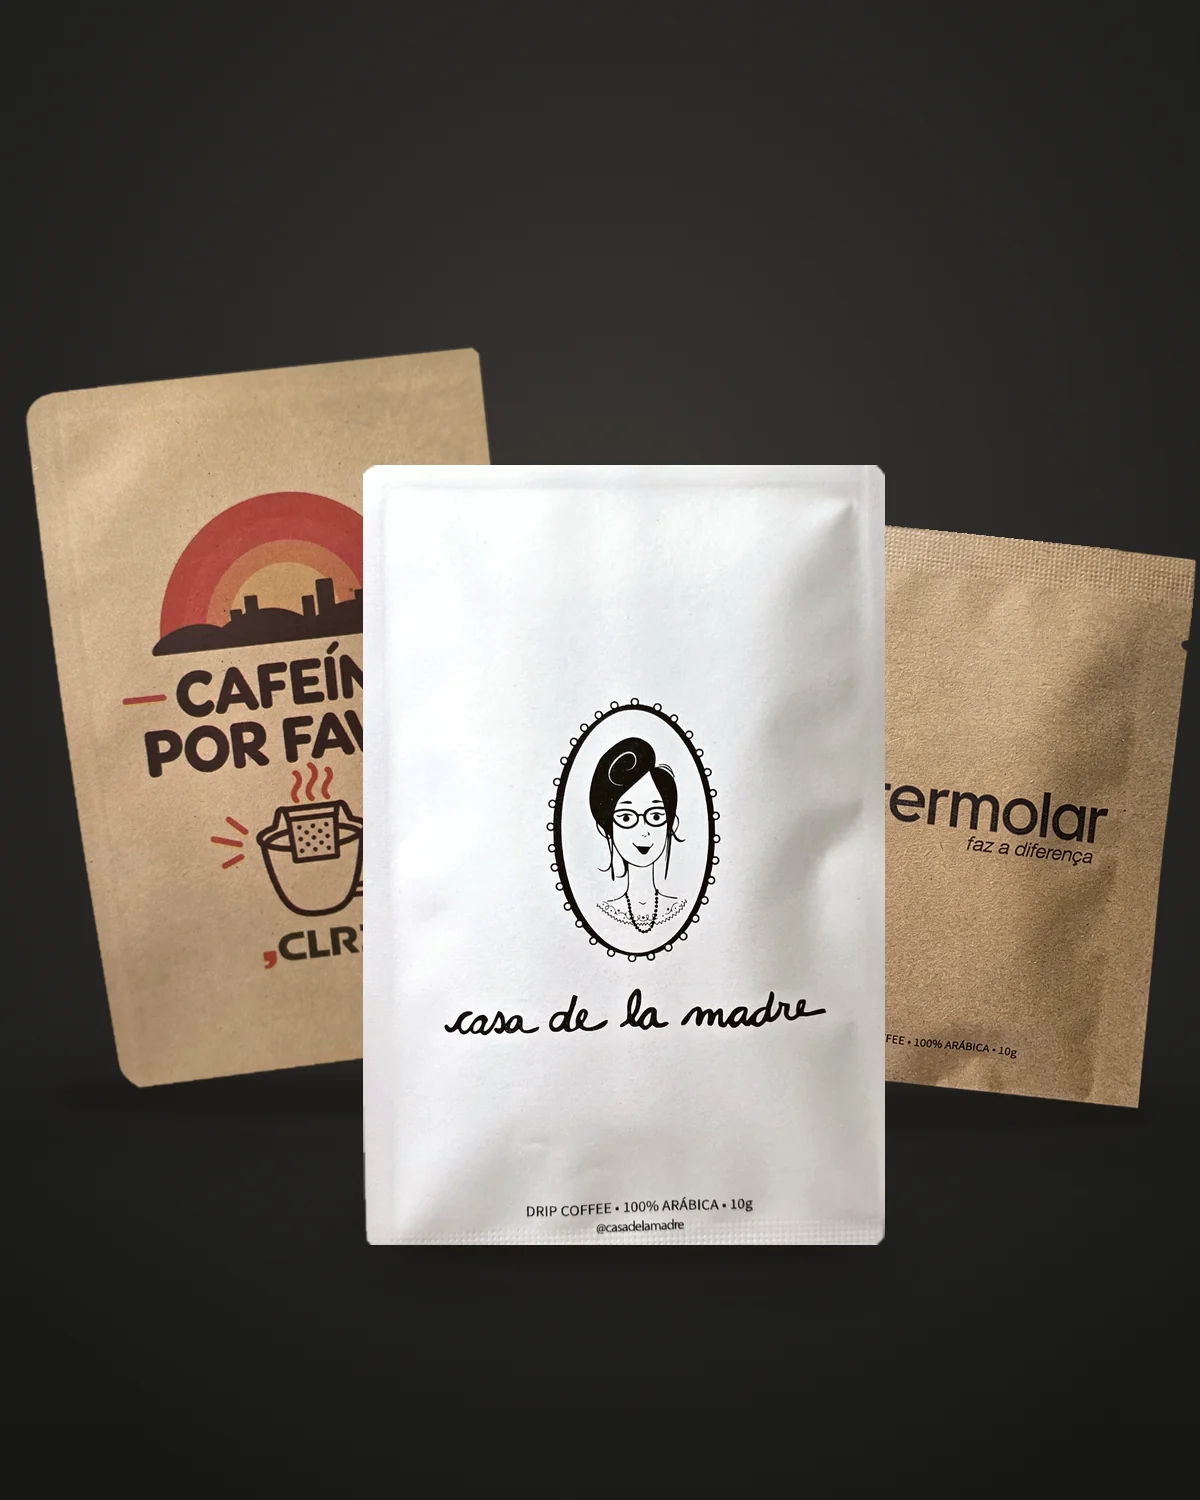
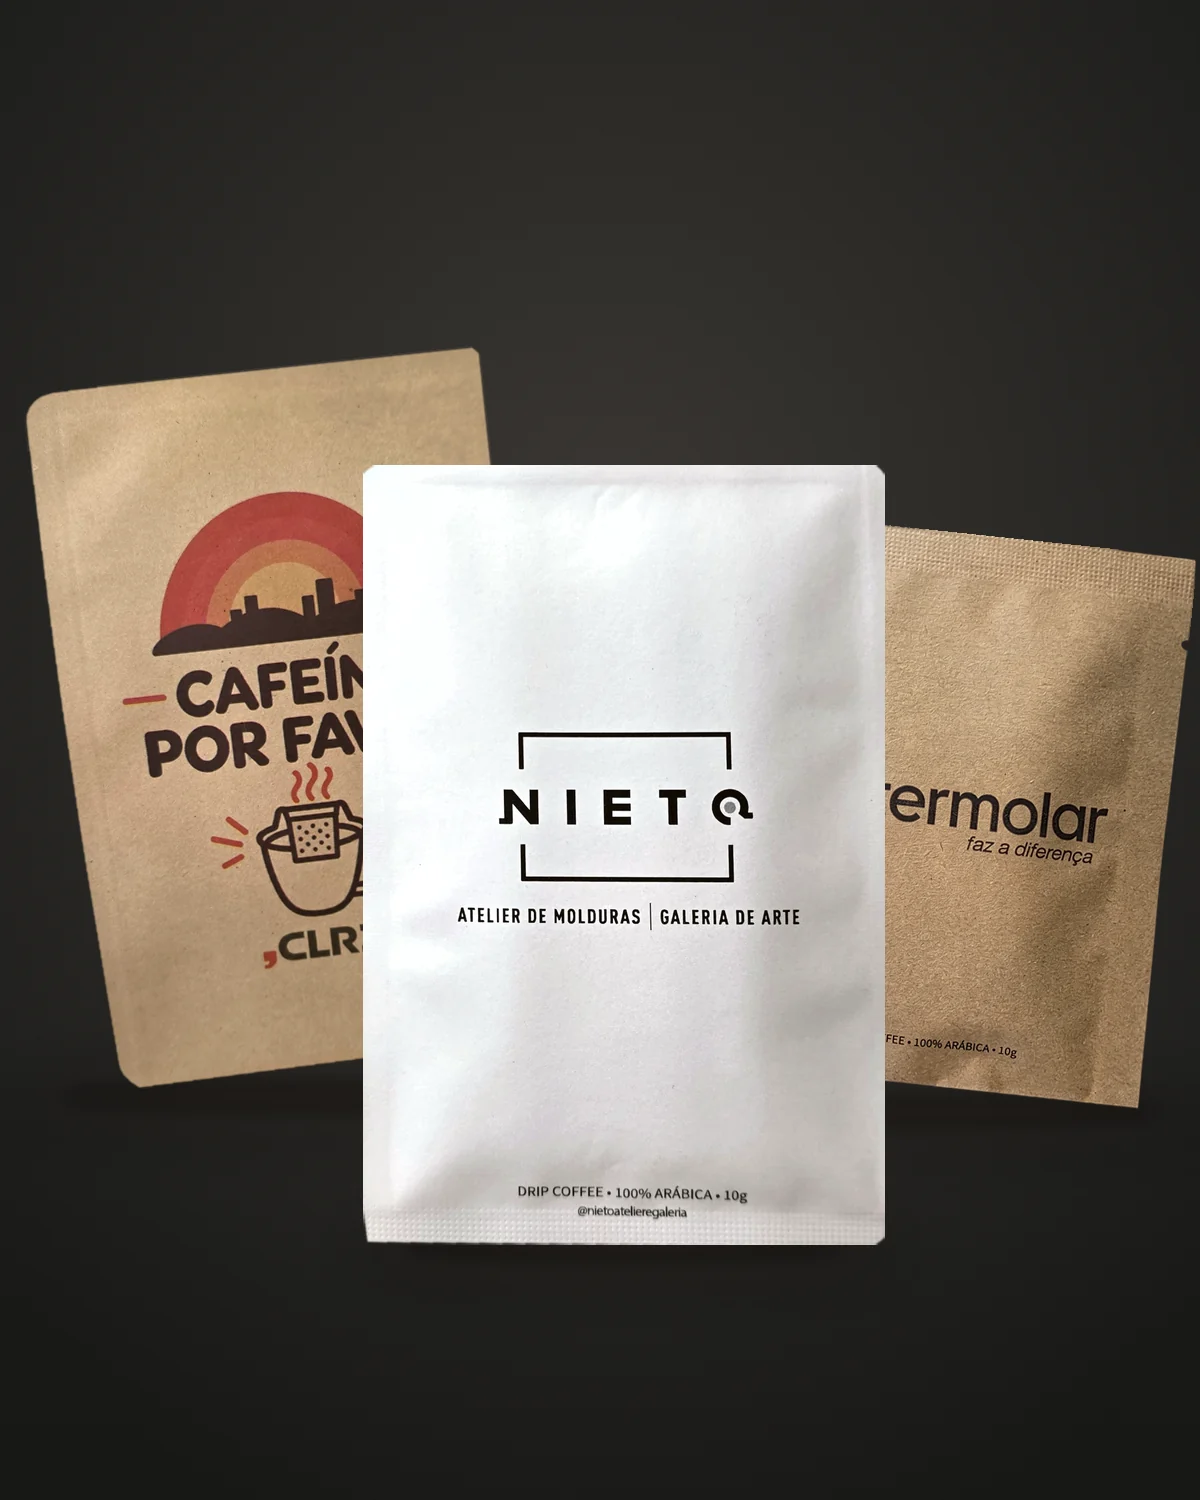
Capa: Nieto branco premium no centro, no lugar da Casa de la Madre (arte torta na foto)
Claude-Session: https://claude.ai/code/session_01PZPQzB469oHskygaSEkhQQ

diff --git a/index.html b/index.html
@@ -740,7 +740,7 @@ fbq('track','PageView');
     <div class="ctas"><a class="btn btn-branco" href="#modelos">Ver modelos e preços</a><a class="btn btn-vazado js-zap" data-origem="heroi" href="#" target="_blank" rel="noopener">Pedir orçamento</a></div>
     <p class="quem">Já servem o próprio drip: <b>Unimed, Termolar, Uniprime e Brastelha</b></p>
   </div>
-  <figure class="capa-foto"><img src="assets/img/s-capa.webp" alt="Três drips reais: CLRD em kraft premium colorido, Casa de la Madre em branco premium e Termolar em kraft" width="1200" height="1500" fetchpriority="high"><figcaption>Drips feitos para CLRD, Casa de la Madre e Termolar</figcaption></figure>
+  <figure class="capa-foto"><img src="assets/img/s-capa.webp?v=2" alt="Três drips reais: CLRD em kraft premium colorido, Nieto em branco premium e Termolar em kraft" width="1200" height="1500" fetchpriority="high"><figcaption>Drips feitos para CLRD, Nieto e Termolar</figcaption></figure>
 </section>
 <div class="fatos"><ul class="wrap">
   <li><b>Impresso direto no sachê</b><span>Sem etiqueta colada</span></li>
